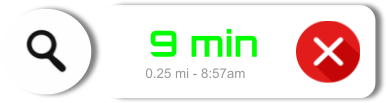
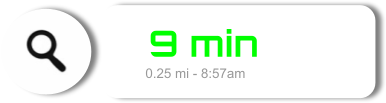
close out of navbar + bugfix
added ability to close out of navbar, removed x from navbar image and put in own image. removed redundant call to navigate() that was breaking close button when clicked from label. also stopped hamburger from appearing too early when bringing up nav from class label. also changed a line of code on 16 to stop a console error from appearing..

Changed region(s): [[0.7461, 0.2039, 0.9326, 0.8155]]

diff --git a/Louis/app.py b/Louis/app.py
@@ -13,7 +13,7 @@ class CampusMap:
         self.root = tkinter.Tk()
         self.root.geometry(f"{self.width}x{self.height}")
         self.submenu_visible = False
-        self.root.bind_all("<Button-1>", lambda e: e.widget.focus_set())
+        self.root.bind_all("<Button-1>", lambda e: hasattr(e.widget, "focus_set") and e.widget.focus_set())
 
         self.load_assets()
         self.setup_map()
@@ -34,6 +34,7 @@ class CampusMap:
         self.class_menu_img = ImageTk.PhotoImage(Image.open("class_menu.png"))
         self.edit_icon = ImageTk.PhotoImage(Image.open("edit_icon.png"))
         self.delete_icon = ImageTk.PhotoImage(Image.open("delete_icon.png"))
+        self.navbar_x = ImageTk.PhotoImage(Image.open("navbar_x.png"))
 
     def setup_map(self):
         self.map_widget = tkintermapview.TkinterMapView(
@@ -290,17 +291,18 @@ class CampusMap:
     def go_To_Class(self, class_to_navigate):
         print("Start Navigation for Next Event", class_to_navigate)
         #TODO buld navagation feture
+        self.navigate() #goes to placeholder navigation
 
     def next_class(self):
         self.close_submenu()
         self.go_To_Class(None)#TODO buld and store what the "next class" is somewhere
 
     def selectedClass(self, chosesClass):#for when the user selects a spsific class they wish to travel to
-        self.close_class_menu()
+        self.close_class_menu(show_menu_button=False) #stops from reappearing hamburger menu too earlier
         self.go_To_Class(chosesClass)
 
         self.close_submenu()
-        self.navigate()
+        #self.navigate() already called in go_To_class
 
     def search(self):
         self.search_has_focus = True
@@ -521,7 +523,7 @@ class CampusMap:
         self.king=self.map_widget.set_marker(41.29225950788716, -82.22067847961983, text="King Building")
         self.map_widget.set_position(41.2939542, -82.2211778)
         self.map_widget.set_zoom(17)
-        path_1 = self.map_widget.set_path([self.marker.position, (41.2954777, -82.2214728), (41.2953729, -82.2215587), (41.2937607, -82.2215265), (41.2934383, -82.2210651), (41.2924307, -82.2211081), self.king.position,])
+        self.path_1 = self.map_widget.set_path([self.marker.position, (41.2954777, -82.2214728), (41.2953729, -82.2215587), (41.2937607, -82.2215265), (41.2934383, -82.2210651), (41.2924307, -82.2211081), self.king.position,])
         self.navbar_frame=tkinter.Frame(self.root, width=400, height=200, bg="white")
         self.navbar=tkinter.Label(
             self.navbar_frame,
@@ -529,8 +531,26 @@ class CampusMap:
             bd=0
         )
         self.navbar.pack()
+        #add invisible close button (x is already in image)
+        self.nav_close_btn = tkinter.Label(
+            self.navbar_frame,
+            image=self.navbar_x,
+            cursor="hand2"
+        )
+        self.nav_close_btn.place(relx=0.85, rely=0.5, anchor="center")
+        self.nav_close_btn.bind("<Button-1>", lambda e: self.close_navigation())
         self.navbar_frame.place(relx=0.5, rely=0.1, anchor=tkinter.CENTER)
 
+
+    #cleans up/closes sample navigation
+    def close_navigation(self):
+        self.navbar_frame.destroy()
+        if hasattr(self, "path_1"):
+            self.path_1.delete()
+        if hasattr(self, "king"):
+            self.king.delete()
+        self.menu.place(x=10, y=610)
+        self.search_bar_frame.place(relx=0.5, rely=0.1, anchor=tkinter.CENTER)
 
 
 class Event:#used for keeping track of information about a single event(class) in one place
